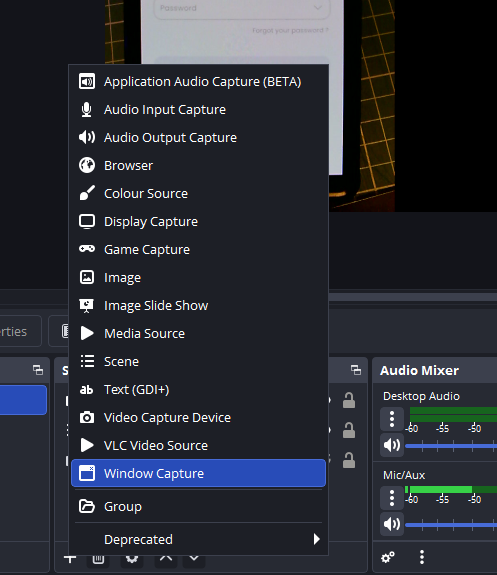
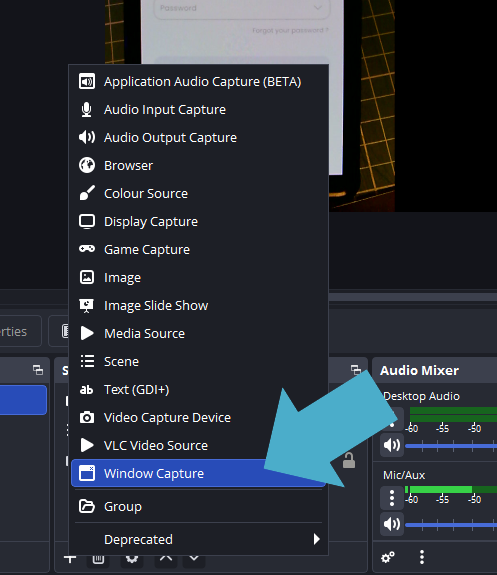
Update images and docs; remove PSD assets from history

Changed region(s): [[0.5131, 0.6209, 0.8149, 0.8574]]

diff --git a/docs/sharing/child_8.md b/docs/sharing/child_8.md
@@ -7,16 +7,16 @@ nav_order: 9
 
 {: .no_toc }
 
-# Testing - OBS Set-Up
+# Testing - OBS Studio
 
+## WebCam Set-up
 
-
-We will useth **FREE** [OBS Studio](https://obsproject.com/) to set up feeds from multiple devices to help us conduct user experience testing within a lab environment.
+We will use the **FREE** [OBS Studio](https://obsproject.com/) to set up feeds from multiple devices to help us conduct user experience testing within a lab environment.
 You will need to install OBS Studio on your own computer, or you can access it in the university labs (if installed).
 
 In this walkthrough, we will use HUE gooseneck webcams to capture testers’ interactions with a mobile application. 
 
-![](../images/proto_share/hue_web_cam_picts/1_hue_wc.jpg)
+![](../images/proto_share/hue_web_cam_picts/1_hue_wc%20copy.jpg)
 
 The HUE webcam kit includes the camera, the base, and a USB extension cable. 
 
@@ -31,13 +31,22 @@ The setup should now look like this
 
 ![](../images/proto_share/hue_web_cam_picts/10_hue_wc.jpg)
 
+
+
 We will use the webcam together with a mobile phone cradle. This cradle has a hinge that lets you adjust the phone’s position. Keeping the phone in a cradle like this makes it steady while being filmed, but still allows the user to interact with the app on the screen.
 
-![](../images/proto_share/hue_web_cam_picts/14_hue_wc.jpg)
+![](../images/proto_share/hue_web_cam_picts/14_hue_wc%20copy.jpg)
 
 Phone set up in the cradle.
 
-![](../images/proto_share/hue_web_cam_picts/15_hue_wc.jpg)
+![](../images/proto_share/hue_web_cam_picts/15_hue_wc%20copy.jpg)
+
+We have placed the phone in the cradle and positioned the HUE webcam over the screen, using a book to add some height. Make sure the setup is secure and that the cables are not causing any obstruction or hazard.
+
+![](../images/proto_share/hue_web_cam_picts/PXL_20251124_121517599_copy.png)
+
+
+## OBS Studio Set-up
 
 We will add a standard **Logitech webcam** to record the participant, which is important when they are **"thinking out loud"** Then we will connect one of the **HUE webcams** to capture the interaction on the phone. You can add more devices if needed, but we will focus on these two. The principle for adding and using them is the same, as long as you have enough USB connections on the computer.
 
@@ -71,7 +80,11 @@ You can move this around and enlarge it by dragging one of the corners.
 
 ![](../images/proto_share/obs/11_OBS.png)
 
-Creating the presenter in a rounded circle
+### Creating the presenter in a rounded circle
+
+{: .note }
+In most user testing environments, **you probably don’t need to place the tester in a circle.** You can just leave them in the normal rectangle layout it comes with. However, this might be useful for other uses of OBS Studio.
+
 To do this, create a new scene. In the Scenes panel at the bottom of the screen, click on the +.
 
 
@@ -213,9 +226,7 @@ Click the three dots (top right) and choose View Prototype.
 
 ![](../images/proto_share/obs/47_OBS.png)
 
-In OBS Studio, click + in the Sources panel and select Window Capture. Name it Figma.
 
-![](../images/proto_share/obs/48_OBS.png)
 
 Back in the Figma preview, you may see duplicate profiles
 
@@ -231,7 +242,11 @@ Select the device login to follow.
 
 ![](../images/proto_share/obs/51_OBS.png)
 
-In OBS Studio, click + in the Sources panel and select Window Capture.
+In OBS Studio, click +
+
+![](../images/proto_share/obs/48_OBS.png)
+
+Select Window Capture.
 
 ![](../images/proto_share/obs/52_OBS.png)
 
@@ -245,7 +260,7 @@ Select the browser page where the Figma Prototype is
 
 ![](../images/proto_share/obs/55_OBS.png)
 
-You will now have the Figma feed and the feed from over the Hue Webcam
+You will now have the Figma feed and the feed from the Hue Webcam on the testers ohone screen
 
 
 ![](../images/proto_share/obs/58_OBS.png)
